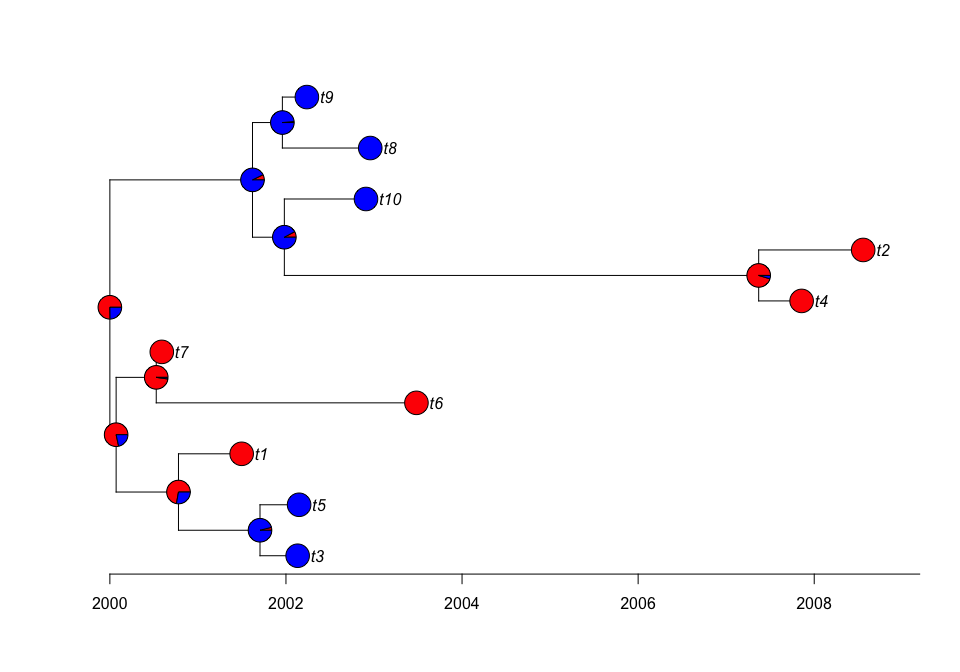
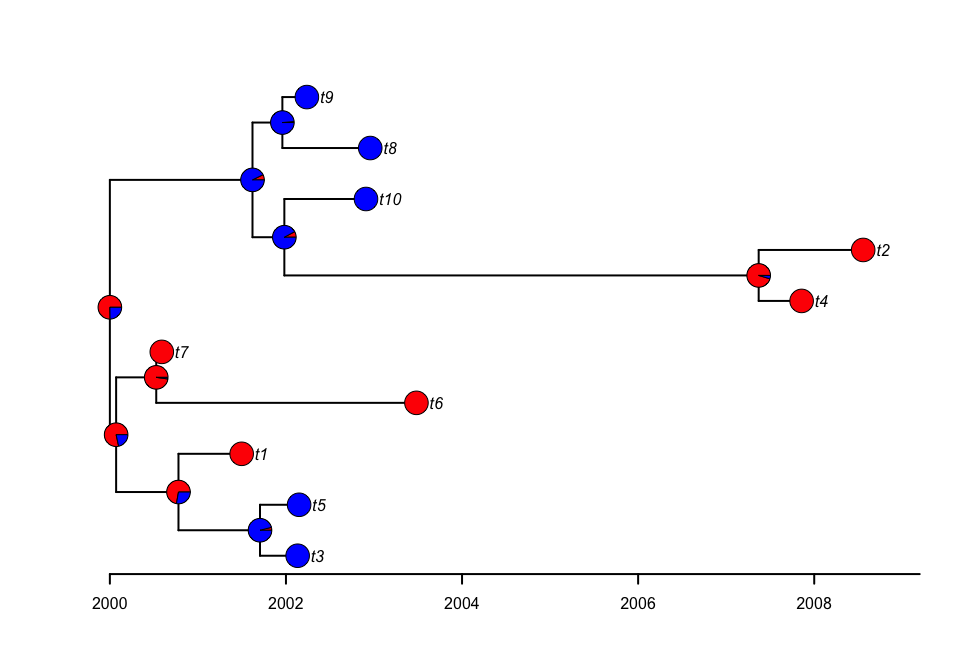
.

diff --git a/README.md b/README.md
@@ -54,8 +54,8 @@ names(loc) = tree_test$tip.label
 
 #Reconstruct ancestral states using ace. 
 fit1 = ace(x=loc, phy= tree_test, type="discrete", mod="ARD")
-plot.phylo(tree_test,lwd=2,label.offset = 0.15, mar=c(0.2,0.2,0.2,0.2))
-axisPhylo(root.time=2000, backward=F)
+plot.phylo(tree_test,edge.width = 2,label.offset = 0.15, mar=c(0.2,0.2,0.2,0.2))
+axisPhylo(root.time=2000, backward=F,lwd=2)
 nodelabels(pie=fit1$lik.anc,cex=0.7,piecol=c("Red","Blue"))
 tips = to.matrix(loc,seq=c("Norway", "RoW"))
 tiplabels(pie=tips, cex=0.7,piecol=c("Red","Blue"))
